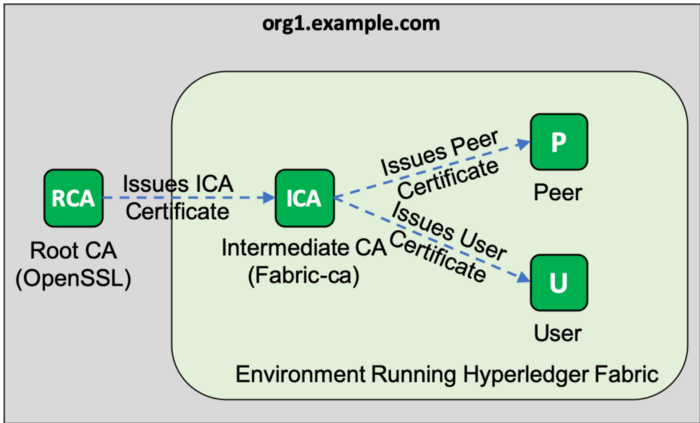
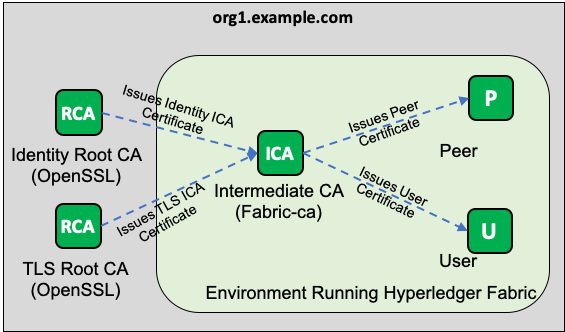
Added diagrams and revised README

Changed region(s): [[0.0, 0.0, 1.0, 1.0]]

diff --git a/README.md b/README.md
@@ -20,6 +20,13 @@ rm -f config/configtx.yaml config/core.yaml config/orderer.yaml
 
 ## Tutorial
 
+Clone the repository which contains all the scripts and files needed for this demo. All commands are to be executed in the root folder of the repository.
+
+```bash
+git clone https://github.com/aldredb/external-ca
+cd external-ca
+```
+
 Generate crypto-materials for **Orderer**
 
 ```bash
@@ -27,7 +34,7 @@ export PATH=$PWD/bin:$PATH
 cryptogen generate --config=./crypto-config.yaml
 ```
 
-Create the folder structure to store certs and keys of the peer organisation: `org1.example.com`. As seen below, There is going to be one peer, `peer0.org1.example.com` and two users, `admin` and `Admin@org1.example.com`. The intermediate CA’s certificate and key will be stored in ca folder.
+Create the folder structure to store certs and keys of the peer organisation: `org1.example.com`. As seen below, There is going to be one peer, `peer0.org1.example.com` and three users, `admin`, `tlsadmin` and `Admin@org1.example.com`. The intermediate CA’s certificate and key will be stored in `ca` and `tlsca` folders.
 
 ```bash
 ORG_DIR=$PWD/crypto-config/peerOrganizations/org1.example.com
@@ -38,18 +45,29 @@ ADMIN_DIR=$ORG_DIR/users/Admin@org1.example.com
 mkdir -p $ORG_DIR/ca $ORG_DIR/tlsca $ORG_DIR/msp $PEER_DIR $IDENTITY_REGISTRAR_DIR $TLS_REGISTRAR_DIR $ADMIN_DIR
 ```
 
-Create **Identity Root CA**
+### Create Root Certificate Authorities
+
+Create folder structure for **Identity Root CA**
 
 ```bash
 mkdir -p identity-rca/private identity-rca/certs identity-rca/newcerts
 touch identity-rca/index.txt identity-rca/serial
 echo 1000 > identity-rca/serial
+```
 
+Generate the Identity Root CA's private key. cryptogen and default Fabric CA settings uses ECDSA with curve prime256v1, so we are going to follow that standard. I have not experimented with other combination of algorithm and key sizes.
+
+```bash
 openssl ecparam -name prime256v1 -genkey -noout -out identity-rca/private/rca.identity.org1.example.com.key
+```
+
+Based on the private key, generate a Certificate Signing Request (CSR) and self-sign the CSR, producing the Identity Root certificate. Note that we use v3_ca extension. Root certificates are supposed to have long validity period, thus we set the period to 10 years.
+
+```bash
 openssl req -config openssl_root-identity.cnf -new -x509 -sha256 -extensions v3_ca -key identity-rca/private/rca.identity.org1.example.com.key -out identity-rca/certs/rca.identity.org1.example.com.cert -days 3650 -subj "/C=SG/ST=Singapore/L=Singapore/O=org1.example.com/OU=/CN=rca.identity.org1.example.com"
 ```
 
-Create **TLS Root CA**
+In a similar fashion, create the **TLS Root CA** folder structure and generate the certificate and key pairs
 
 ```bash
 mkdir -p tls-rca/private tls-rca/certs tls-rca/newcerts
@@ -60,19 +78,30 @@ openssl ecparam -name prime256v1 -genkey -noout -out tls-rca/private/rca.tls.org
 openssl req -config openssl_root-tls.cnf -new -x509 -sha256 -extensions v3_ca -key tls-rca/private/rca.tls.org1.example.com.key -out tls-rca/certs/rca.tls.org1.example.com.cert -days 3650 -subj "/C=SG/ST=Singapore/L=Singapore/O=org1.example.com/OU=/CN=rca.tls.org1.example.com"
 ```
 
-Generate key and cert for **Identity Intermediate CA**
+### Create Intermediate Certificate Authorities
+
+Generate private key and CSR for **Identity Intermediate CA**. Note that the value of Organization (O) i.e. **org1.example.com** is the same as that of the **Identity Root CA**
 
 ```bash
 openssl ecparam -name prime256v1 -genkey -noout -out $ORG_DIR/ca/ica.identity.org1.example.com.key
 
 openssl req -new -sha256 -key $ORG_DIR/ca/ica.identity.org1.example.com.key -out $ORG_DIR/ca/ica.identity.org1.example.com.csr -subj "/C=SG/ST=Singapore/L=Singapore/O=org1.example.com/OU=/CN=ica.identity.org1.example.com"
+```
 
+The Identity Root CA signs the Identity Intermediate CA's CSR, issuing the certificate. The validity period is half that of the Root certificate. Note that we use `v3_intermediate_ca` extension.
+
+```bash
 openssl ca -batch -config openssl_root-identity.cnf -extensions v3_intermediate_ca -days 1825 -notext -md sha256 -in $ORG_DIR/ca/ica.identity.org1.example.com.csr -out $ORG_DIR/ca/ica.identity.org1.example.com.cert
+```
 
+Once we issue the identity intermediate CA's certificate, the Identity Root CA is not required anymore, unless there is a need to create another Intermediate CA or to revoke an Intermediate CA's certificate.
+Create the "chain" file, which consists of both the Identity Intermediate CA's and Identity Root CA's certificate.
+
+```bash
 cat $ORG_DIR/ca/ica.identity.org1.example.com.cert $PWD/identity-rca/certs/rca.identity.org1.example.com.cert > $ORG_DIR/ca/chain.identity.org1.example.com.cert
 ```
 
-Generate key and cert for **TLS Intermediate CA**
+In a similar fashion, generate the certificate and key pairs for **Intermediate TLS CA**
 
 ```bash
 openssl ecparam -name prime256v1 -genkey -noout -out $ORG_DIR/tlsca/ica.tls.org1.example.com.key
@@ -84,13 +113,13 @@ openssl ca -batch -config openssl_root-tls.cnf -extensions v3_intermediate_ca -d
 cat $ORG_DIR/tlsca/ica.tls.org1.example.com.cert $PWD/tls-rca/certs/rca.tls.org1.example.com.cert > $ORG_DIR/tlsca/chain.tls.org1.example.com.cert
 ```
 
-Bring up **Intermediate CA**
+Finally, start the Intermediate CA. The configuration file of Intermediate CA will point to the certificate, key and chain which we generated in the previous steps. Refer to `ca-config/fabric-ca-server-config.yaml` for the Identity CA instance and `ca-config/tlsca/fabric-ca-server-config.yaml` for the TLS CA instance
 
 ```bash
 docker-compose up -d ica.org1.example.com
 ```
 
-Confirm that there are `ca` and `tlsca` instances running in the Ca container
+Once the container is up and running, confirm that there are `ca` and `tlsca` instances running in the container
 
 ```bash
 curl http://localhost:7054/cainfo\?ca\=ca
@@ -99,25 +128,39 @@ curl http://localhost:7054/cainfo\?ca\=tlsca
 
 Register and enroll users and peers for **Org1**, Wait at least 60 seconds before issuing the rest of the commands below. This is a safety measure to ensure that `NotBefore` property of the issued certificates are not earlier the `NotBefore` property of the Intermediate CA Certificate
 
-Generate key-cert pairs from `ca`
+As the Intermediate CA is ready, we can now create and sign user and peer certificates.
+
+Enroll the `ca` registrar user, **admin**. The registrar user has the privilege to register other users. Notice the parameter `--caname ca`, which signifies interaction with the `ca` instance of the CA containers instead of `tlsca`
 
 ```bash
 export FABRIC_CA_CLIENT_HOME=$IDENTITY_REGISTRAR_DIR
-fabric-ca-client enroll --csr.names C=SG,ST=Singapore,L=Singapore,O=org1.example.com -m admin -u http://admin:adminpw@localhost:7054
+fabric-ca-client enroll --caname ca --csr.names C=SG,ST=Singapore,L=Singapore,O=org1.example.com -m admin -u http://admin:adminpw@localhost:7054
+```
 
+**admin** registers user **Admin@org1.example.com**, who is going to be the **org1.example.com**'s admin, and peer **peer0.org1.example.com**
+
+```bash
 fabric-ca-client register --caname ca --id.name Admin@org1.example.com --id.secret mysecret --id.type client --id.affiliation org1 -u http://localhost:7054
 fabric-ca-client register --caname ca --id.name peer0.org1.example.com --id.secret mysecret --id.type peer --id.affiliation org1 -u http://localhost:7054
+```
 
+Enroll **Admin@org1.example.com**
+
+```bash
 export FABRIC_CA_CLIENT_HOME=$ADMIN_DIR
 fabric-ca-client enroll --caname ca --csr.names C=SG,ST=Singapore,L=Singapore,O=org1.example.com -m Admin@org1.example.com -u http://Admin@org1.example.com:mysecret@localhost:7054
 mkdir -p $ADMIN_DIR/msp/admincerts && cp $ADMIN_DIR/msp/signcerts/*.pem $ADMIN_DIR/msp/admincerts/
+```
 
+Enroll **peer0.org1.example.com**
+
+```bash
 export FABRIC_CA_CLIENT_HOME=$PEER_DIR
 fabric-ca-client enroll --caname ca --csr.names C=SG,ST=Singapore,L=Singapore,O=org1.example.com -m peer0.org1.example.com -u http://peer0.org1.example.com:mysecret@localhost:7054
 mkdir -p $PEER_DIR/msp/admincerts && cp $ADMIN_DIR/msp/signcerts/*.pem $PEER_DIR/msp/admincerts/
 ```
 
-Generate key-cert pairs from `tlsca`
+Generate TLS certificate and key pair for **peer0.org1.example.com** to establish TLS sessions with other components. There is no need to generate TLS certificate and key pair for **Admin@org1.example.com** as a user does not use any TLS communication. Notice that the parameter `--caname` is set to `tlsca`
 
 ```bash
 export FABRIC_CA_CLIENT_HOME=$TLS_REGISTRAR_DIR
@@ -133,7 +176,15 @@ cat $PEER_DIR/tls/msp/intermediatecerts/*.pem $PEER_DIR/tls/msp/cacerts/*.pem > 
 rm -rf $PEER_DIR/tls/msp $PEER_DIR/tls/*.yaml
 ```
 
-Prepare **Org1** MSP
+At this point, we have successfully demonstrated that it is possible to combine 3rd party CAs and Fabric CA to form certificate chain of trust
+
+<img src="img/cert-chain.png" width="400" />
+
+### Setting up the whole network
+
+<img src="img/network.png" width="500" />
+
+Prepare **org1.example.com**'s MSP folder. We set **Admin@org1.example.com** as the admin of the organisation.
 
 ```bash
 mkdir -p $ORG_DIR/msp/admincerts $ORG_DIR/msp/intermediatecerts $ORG_DIR/msp/cacerts $ORG_DIR/msp/tlscacerts $ORG_DIR/msp/tlsintermediatecerts
@@ -156,17 +207,29 @@ Bring up **Orderer**, **Peer** and **CLI**
 
 ```bash
 docker-compose up -d orderer.example.com peer0.org1.example.com cli
+```
+
+Create **channel1** and join **peer0.org1.example.com** to **channel1**. Note that the default user to perform all the operations from here onwards is **Admin@org1.example.com**, as specified in `CORE_PEER_MSPCONFIGPATH` environment variable in cli container.
+
+```bash
 docker exec cli peer channel create -o orderer.example.com:7050 --tls --cafile /var/crypto/ordererOrganizations/example.com/msp/tlscacerts/tlsca.example.com-cert.pem -c channel1 -f /config/channel1.tx
 docker exec cli peer channel join -b channel1.block
 ```
 
-Run chaincode
+Install and instantiate chaincode
 
 ```bash
 docker exec cli peer chaincode install -n chaincode1 -p github.com/chaincode1 -v 1
 docker exec cli peer chaincode instantiate -o orderer.example.com:7050 --tls --cafile /var/crypto/ordererOrganizations/example.com/msp/tlscacerts/tlsca.example.com-cert.pem -C channel1 -n chaincode1 -l "golang" -v 1 -c '{"Args":["init","a","81","b","11"]}' -P "OR('Org1MSP.member')"
+```
+
+Attempt to query chaincode
+
+```bash
 docker exec cli peer chaincode query -C channel1 -n chaincode1 -c '{"Args":["query","a"]}'
 ```
+
+If querying chaincode succeeds, we have successfully used the certificates to interact with the Hyperledger Fabric network
 
 ## Creating Intermediate CA in IBM Blockchain Platform
 

diff --git a/IBP.md b/IBP.md
@@ -21,14 +21,14 @@ Copy the CA configuration template. You will need this JSON file to override the
 cp ica.json.template ica.json
 ```
 
-In `ica.json`, observe that you need to fill in the following:
+In `ica.json`, fill in the following:
 
-* `ca.ca.keyfile` - the Identity ICA's key
-* `ca.ca.certfile` - the Identity ICA's certificate
-* `ca.ca.chainfile` - the Identity ICA's chain certificates
-* `tlsca.ca.keyfile` - the TLS ICA's key
-* `tlsca.ca.certfile` - the TLS ICA's certificate
-* `tlsca.ca.chainfile` - the TLS ICA's chain certificates
+* `ca.ca.keyfile` - the Identity ICA's key in base64 format
+* `ca.ca.certfile` - the Identity ICA's certificate in base64 format
+* `ca.ca.chainfile` - the Identity ICA's chain certificates in base64 format
+* `tlsca.ca.keyfile` - the TLS ICA's key in base64 format
+* `tlsca.ca.certfile` - the TLS ICA's certificate in base64 format
+* `tlsca.ca.chainfile` - the TLS ICA's chain certificates in base64 format
 
 To retrieve `ca.ca.keyfile`:
 
@@ -40,35 +40,30 @@ cat crypto-config/peerOrganizations/org1.example.com/ca/ica.identity.org1.exampl
 To retrieve `ca.ca.certfile`:
 
 ```bash
-export FLAG=$(if [ "$(uname -s)" == "Linux" ]; then echo "-d"; else echo "-b 0"; fi)
 cat crypto-config/peerOrganizations/org1.example.com/ca/ica.identity.org1.example.com.cert | base64 $FLAG
 ```
 
 To retrieve `ca.ca.chainfile`:
 
 ```bash
-export FLAG=$(if [ "$(uname -s)" == "Linux" ]; then echo "-d"; else echo "-b 0"; fi)
 cat crypto-config/peerOrganizations/org1.example.com/ca/chain.identity.org1.example.com.cert | base64 $FLAG
 ```
 
 To retrieve `tlsca.ca.keyfile`:
 
 ```bash
-export FLAG=$(if [ "$(uname -s)" == "Linux" ]; then echo "-d"; else echo "-b 0"; fi)
 cat crypto-config/peerOrganizations/org1.example.com/tlsca/ica.tls.org1.example.com.key | base64 $FLAG
 ```
 
 To retrieve `tlsca.ca.certfile`:
 
 ```bash
-export FLAG=$(if [ "$(uname -s)" == "Linux" ]; then echo "-d"; else echo "-b 0"; fi)
 cat crypto-config/peerOrganizations/org1.example.com/tlsca/ica.tls.org1.example.com.cert | base64 $FLAG
 ```
 
 To retrieve `tlsca.ca.chainfile`:
 
 ```bash
-export FLAG=$(if [ "$(uname -s)" == "Linux" ]; then echo "-d"; else echo "-b 0"; fi)
 cat crypto-config/peerOrganizations/org1.example.com/tlsca/chain.tls.org1.example.com.cert | base64 $FLAG
 ```
 
